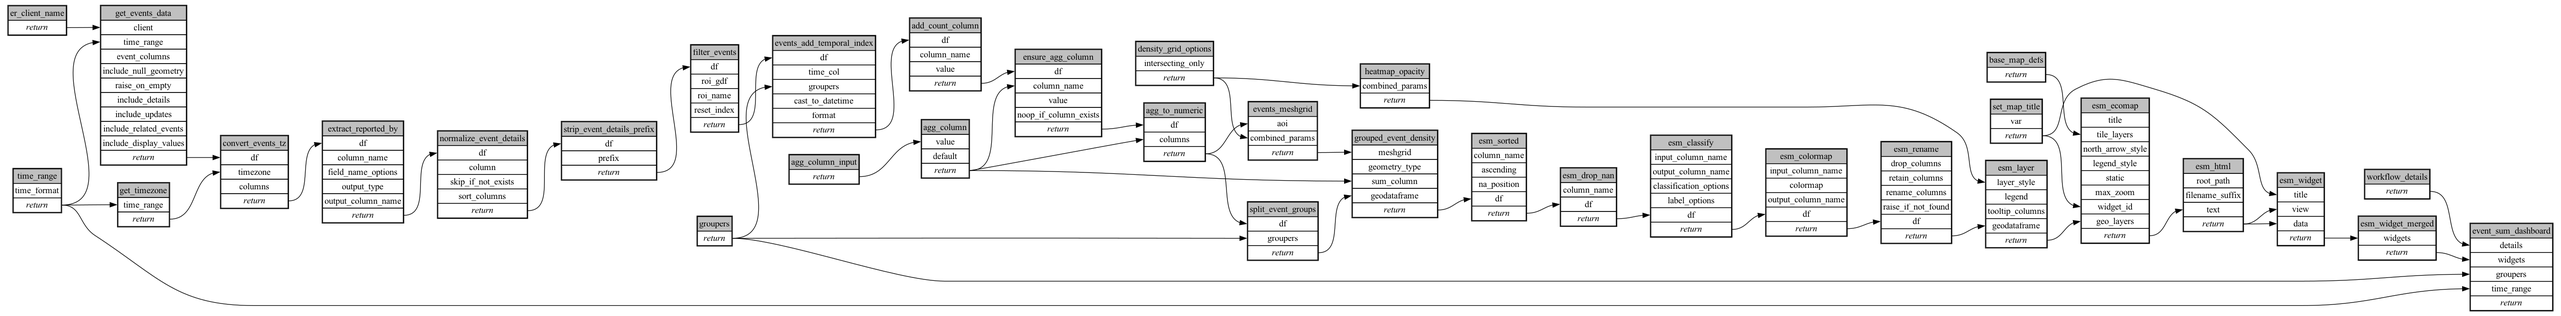
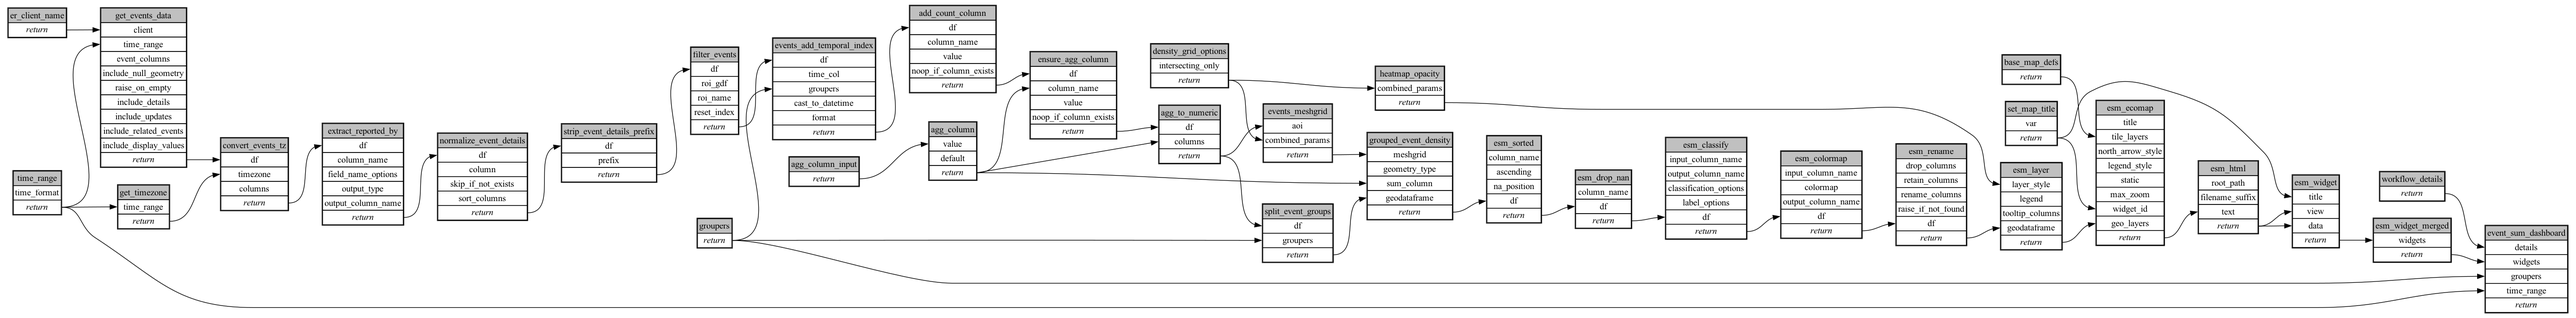
fix: bind noop_if_column_exists so add_count_column stays off the form

diff --git a/ecoscope-workflows-event-sum-map-workflow/ecoscope_workflows_event_sum_map_workflow/dags/run_sequential.py b/ecoscope-workflows-event-sum-map-workflow/ecoscope_workflows_event_sum_map_workflow/dags/run_sequential.py
@@ -434,6 +434,7 @@ def main(params: dict[str, Any], validate_params_schema: bool = True):
             df=events_add_temporal_index,
             column_name="__event_count__",
             value=1,
+            noop_if_column_exists=False,
             **(params.get("add_count_column") or {}),
         )
         .call()

diff --git a/ecoscope-workflows-event-sum-map-workflow/ecoscope_workflows_event_sum_map_workflow/dags/run_sequential_mock_io.py b/ecoscope-workflows-event-sum-map-workflow/ecoscope_workflows_event_sum_map_workflow/dags/run_sequential_mock_io.py
@@ -450,6 +450,7 @@ def main(params: dict[str, Any], validate_params_schema: bool = True):
             df=events_add_temporal_index,
             column_name="__event_count__",
             value=1,
+            noop_if_column_exists=False,
             **(params.get("add_count_column") or {}),
         )
         .call()

diff --git a/ecoscope-workflows-event-sum-map-workflow/README.md b/ecoscope-workflows-event-sum-map-workflow/README.md
@@ -5,8 +5,8 @@
 
 ```yaml
 # fingerprint:
-artifacts_sha256_basic: bf9409ac70321099c6a1c513e240b09cd099131645b34316c61c218416607a4f
-artifacts_sha256_strict: bf718246c803dd50c1f36b8c89c238ef0b75f23708c741e1a3c555141f8e0632
+artifacts_sha256_basic: d57ecf1b578684fe8d02b600b9167bb79cb90b707742aa56f3f854f7018450af
+artifacts_sha256_strict: 8e49cb81bd3504313d0c7fc3277653aba25e7eeaf78a54131477ae5c85ad49e5
 installed_requirements:
 - channel: https://repo.prefix.dev/ecoscope-workflows/
   name: ecoscope-platform
@@ -14,8 +14,8 @@ installed_requirements:
 - channel: conda-forge
   name: pydeck
   version: {version: ==0.9.2}
-params_sha256: 60b2ab372adb305803f89e30ef282e3e73ca462c6c96eedd781e8de33846f28d
-spec_sha256: d027bef308448bd4fb507c5765a11517b388887cc383b482badb1887c33e15f9
+params_sha256: f59b960b22e307fc200c2e6469d36fbcc4d5a5e7125b20a921cf3ea77061bc4d
+spec_sha256: 386aadb3a7578bf5e8d4ce61484b4e15a9d595f59a0af00e6e083144c0d9b891
 
 ```
 
